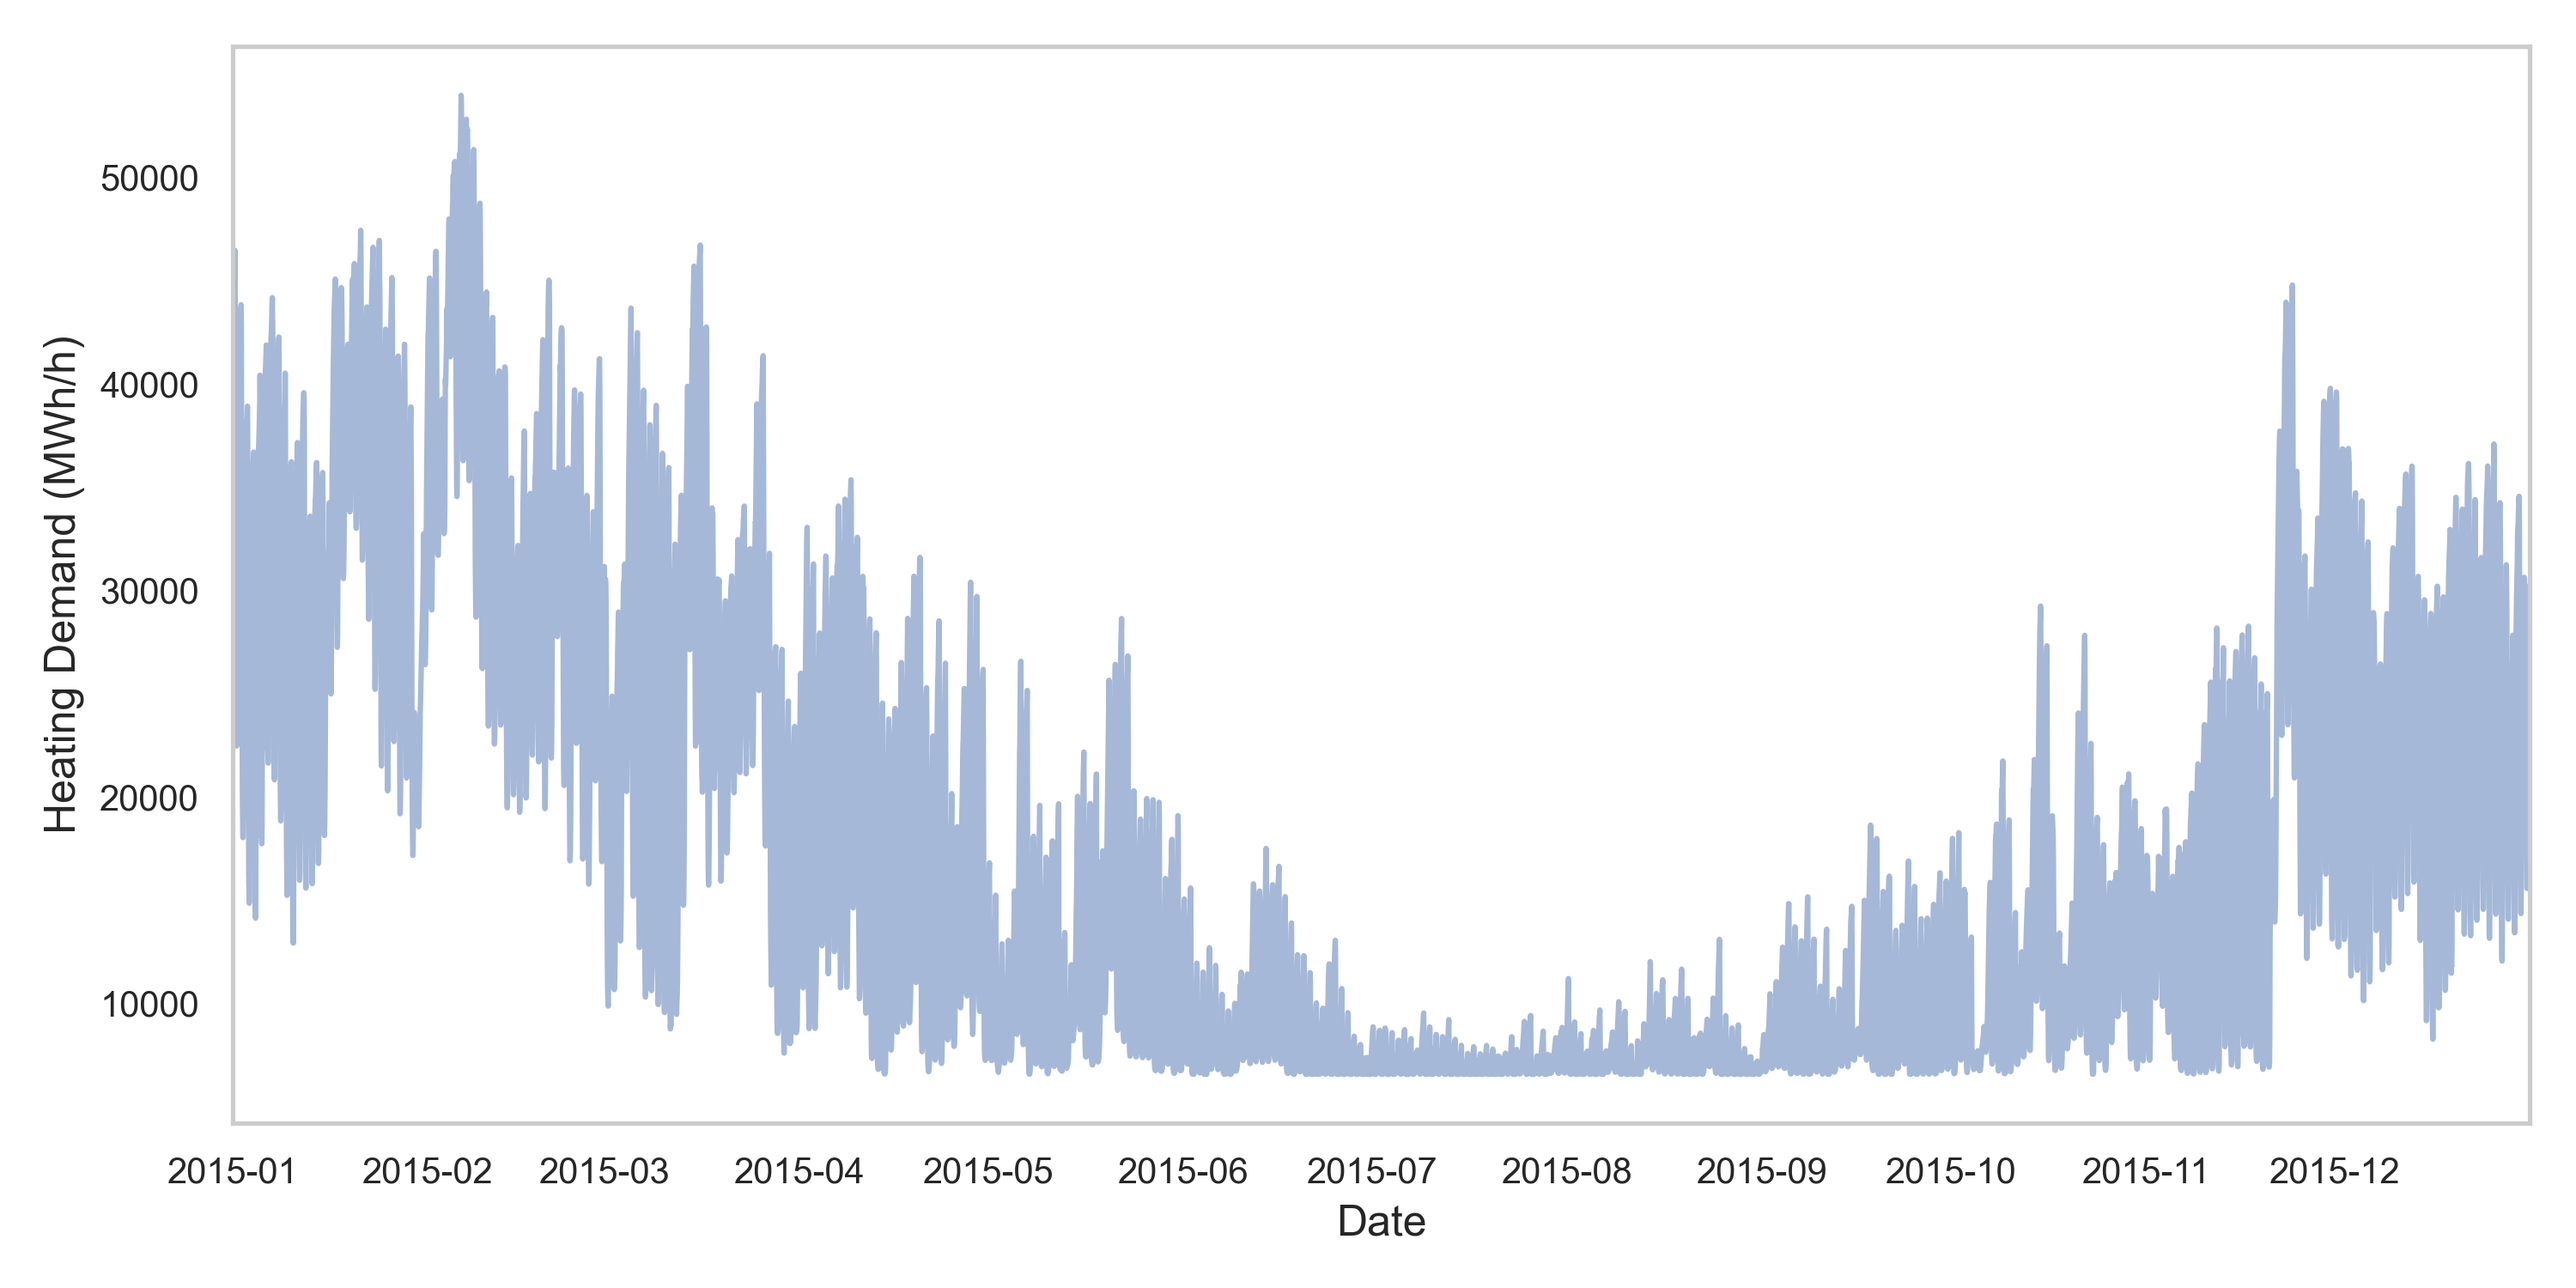
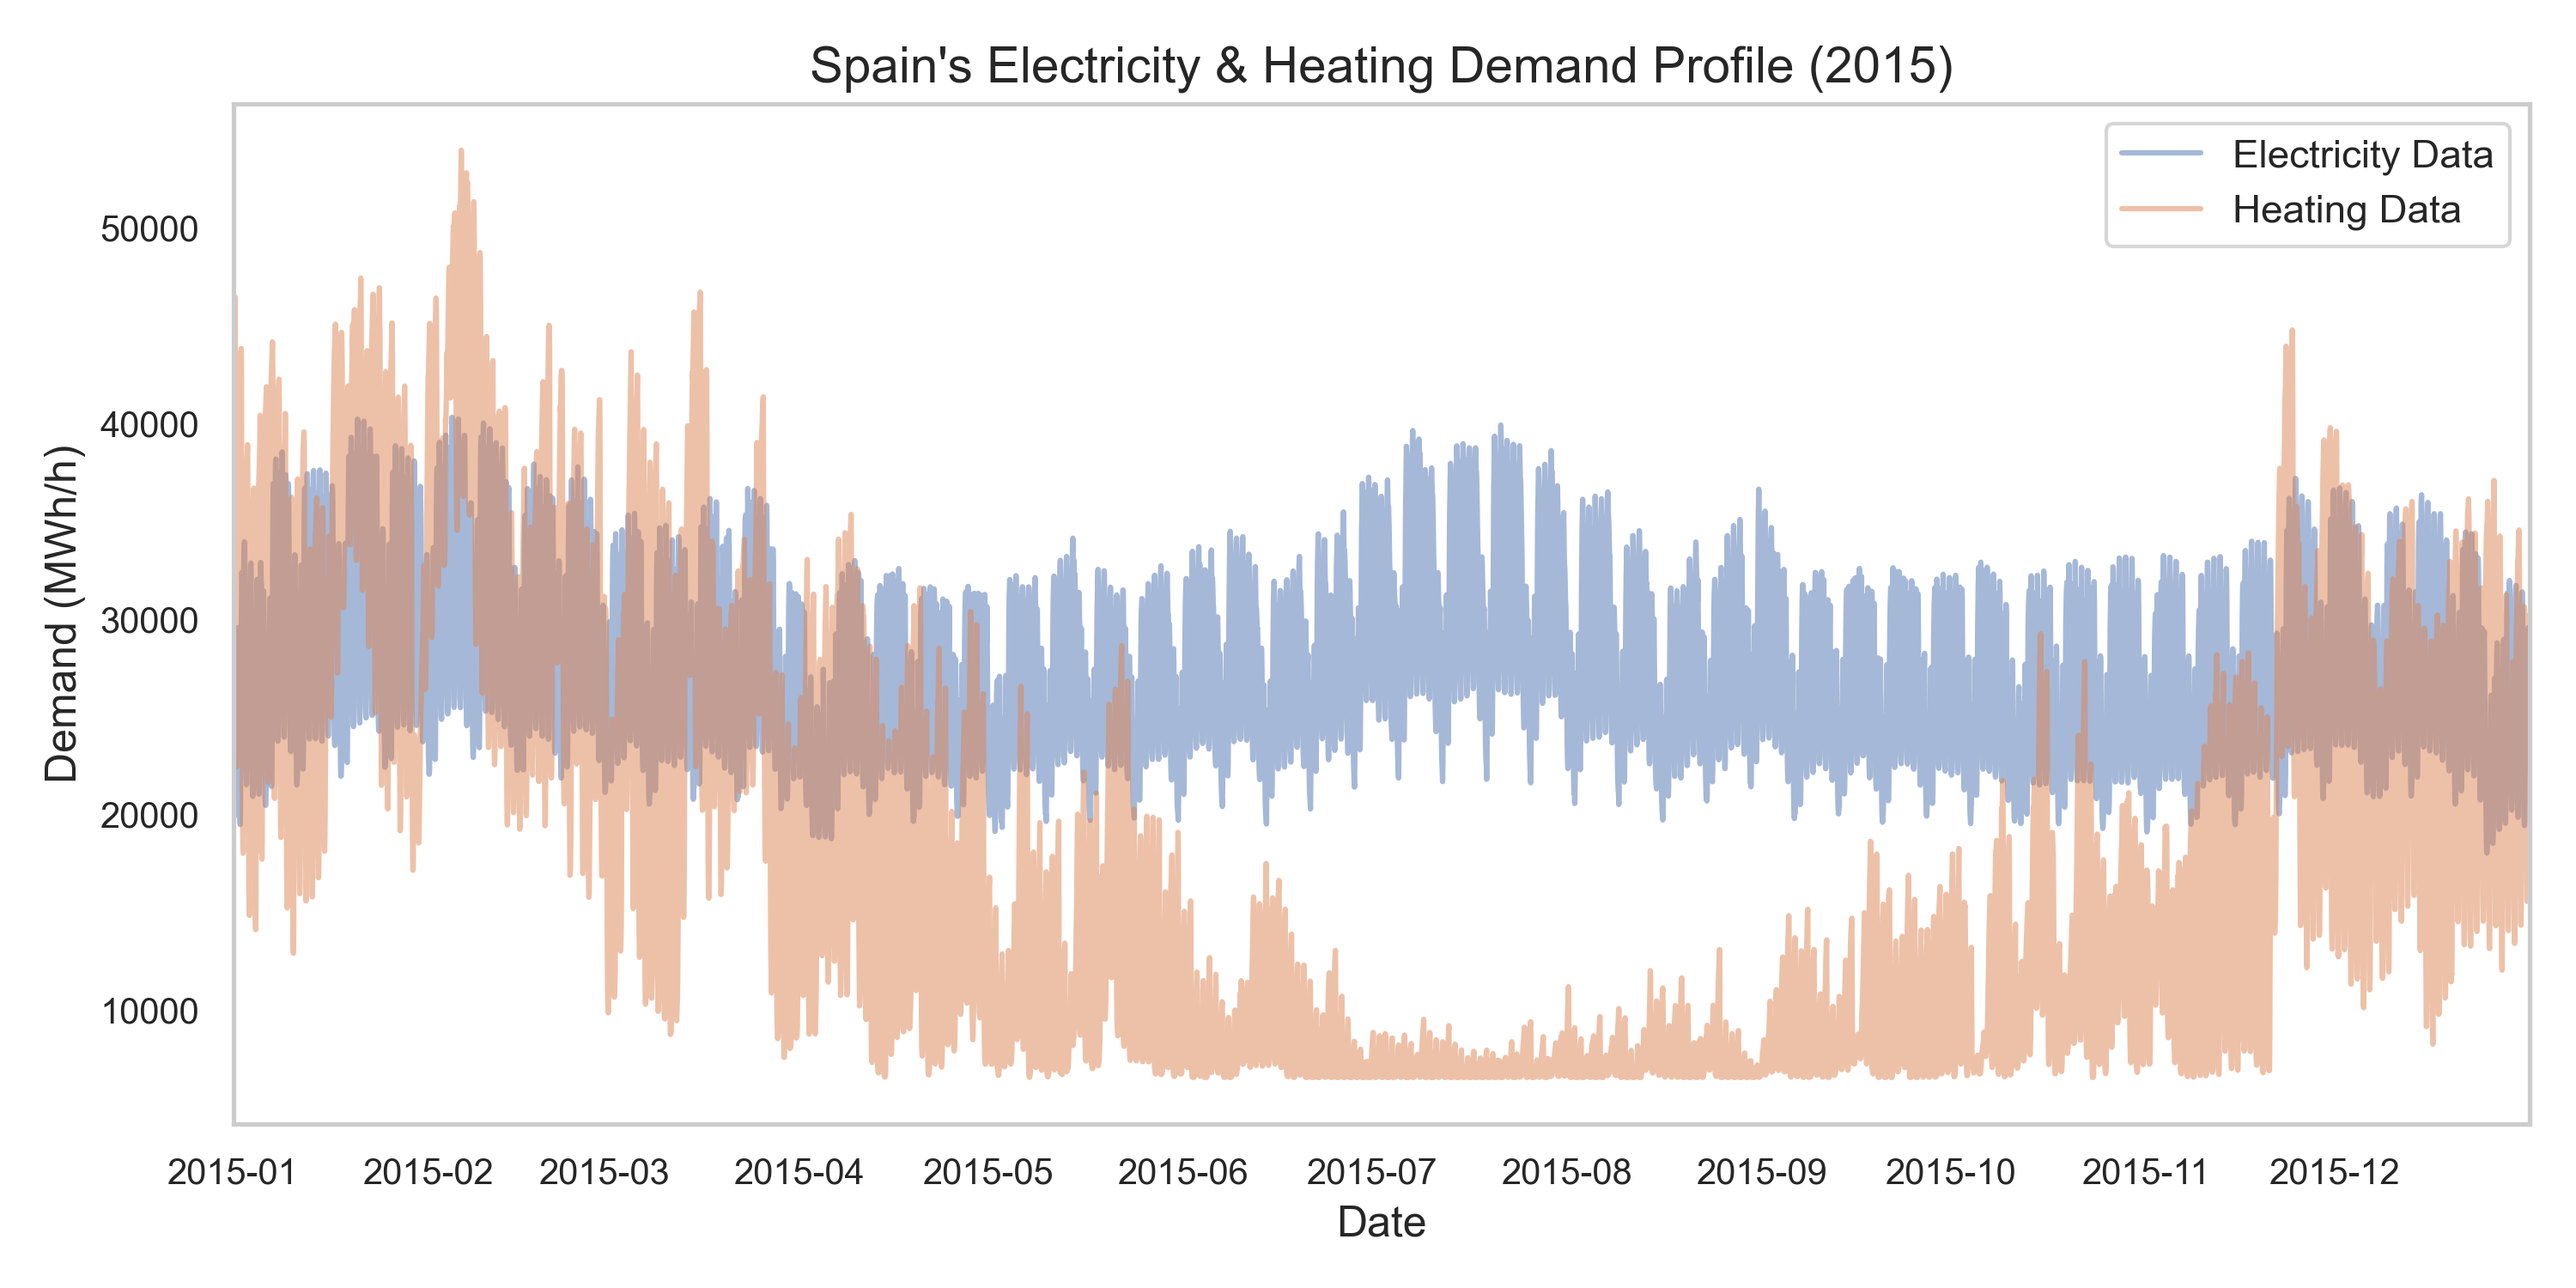
updates to g
New plot with all electricity demand data

diff --git a/g.py b/g.py
@@ -142,6 +142,8 @@ def create_non_coupled_el_and_heat_network(data:DataLoader, heat_demand_profile:
     return n
 
 if __name__ == "__main__":
+    data = DataLoader(country="ESP", discount_rate=0.07)
+
     # Load the heating demand data
     heating_demand_data, annual_space_heating, annual_hot_water = load_heating_demand_data()
     
@@ -157,27 +159,27 @@ if __name__ == "__main__":
     # Plot the heating demand profile
     plt.figure(figsize=(10, 5))
     #plt.plot(heating_demand_profile.index, heating_demand_profile.values, label='Heating Demand Profile From Temperature', alpha=0.5)
-    plt.plot(heating_demand_data.index, heating_demand_data.values, label='Heating Demand Data', alpha=0.5)
+    plt.plot(data.p_d.index, data.p_d.ESP.values, label='Electricity Data', alpha=0.5)
+    plt.plot(heating_demand_data.index, heating_demand_data.values, label='Heating Data', alpha=0.5)
     plt.xlabel('Date')
-    plt.ylabel('Heating Demand (MWh/h)')
-    plt.title('Heating Demand Profile')
+    plt.ylabel('Demand (MWh/h)')
+    plt.title("Spain's Electricity & Heating Demand Profile (2015)")
     plt.xlim(heating_demand_profile.index[0], heating_demand_profile.index[-1])
-    #plt.legend()
+    plt.legend()
     plt.grid()
     plot.save_figure("heating_demand_profile.png")
     plt.close()
-
-    data = DataLoader(country="ESP", discount_rate=0.07)
-
+    raise()
     # Create the heat network
-    heat_network = create_non_coupled_el_and_heat_network(data, heating_demand_profile)
-    heat_network.optimize()
-    print("Combined system costs for simple heating solution: ", heat_network.objective/1e6) # in million EUR
+    isolated_sectors = create_non_coupled_el_and_heat_network(data, heating_demand_profile)
+    # isolated_sectors.optimize()
+    print("Combined system costs for simple heating solution: ", isolated_sectors.objective/1e6) # in million EUR
 
     # Create the network
-    coupled_network = couple_el_and_heat_sector(heat_network, data)
-    coupled_network.optimize()
-    print("Combined system cost for coupled heating solution: ", heat_network.objective/1e6)
+    coupled_sectors = couple_el_and_heat_sector(isolated_sectors, data)
+    coupled_sectors.optimize()
+    print("Combined system cost for coupled heating solution: ", coupled_sectors.objective/1e6)
 
-    plot.plot_series(coupled_network) #, filename="d_storage_plot.png")
-    plot.plot_storage_season([coupled_network]) #, filename="d_storage_season_plot.png")
+    plot.plot_series(coupled_sectors) #, filename="d_storage_plot.png")
+    plot.plot_storage_season([coupled_sectors]) #, filename="d_storage_season_plot.png")
+    plot.plot_generation_series(coupled_sectors, filename="g_generation_plot.png")

diff --git a/data_loader.py b/data_loader.py
@@ -214,3 +214,4 @@ if __name__ == "__main__":
     print(data.cf_solar.head())
     print(data.hydro_capacities.head())
     print(data.cf_hydro.head())
+    print(data.hydro_capacities)
